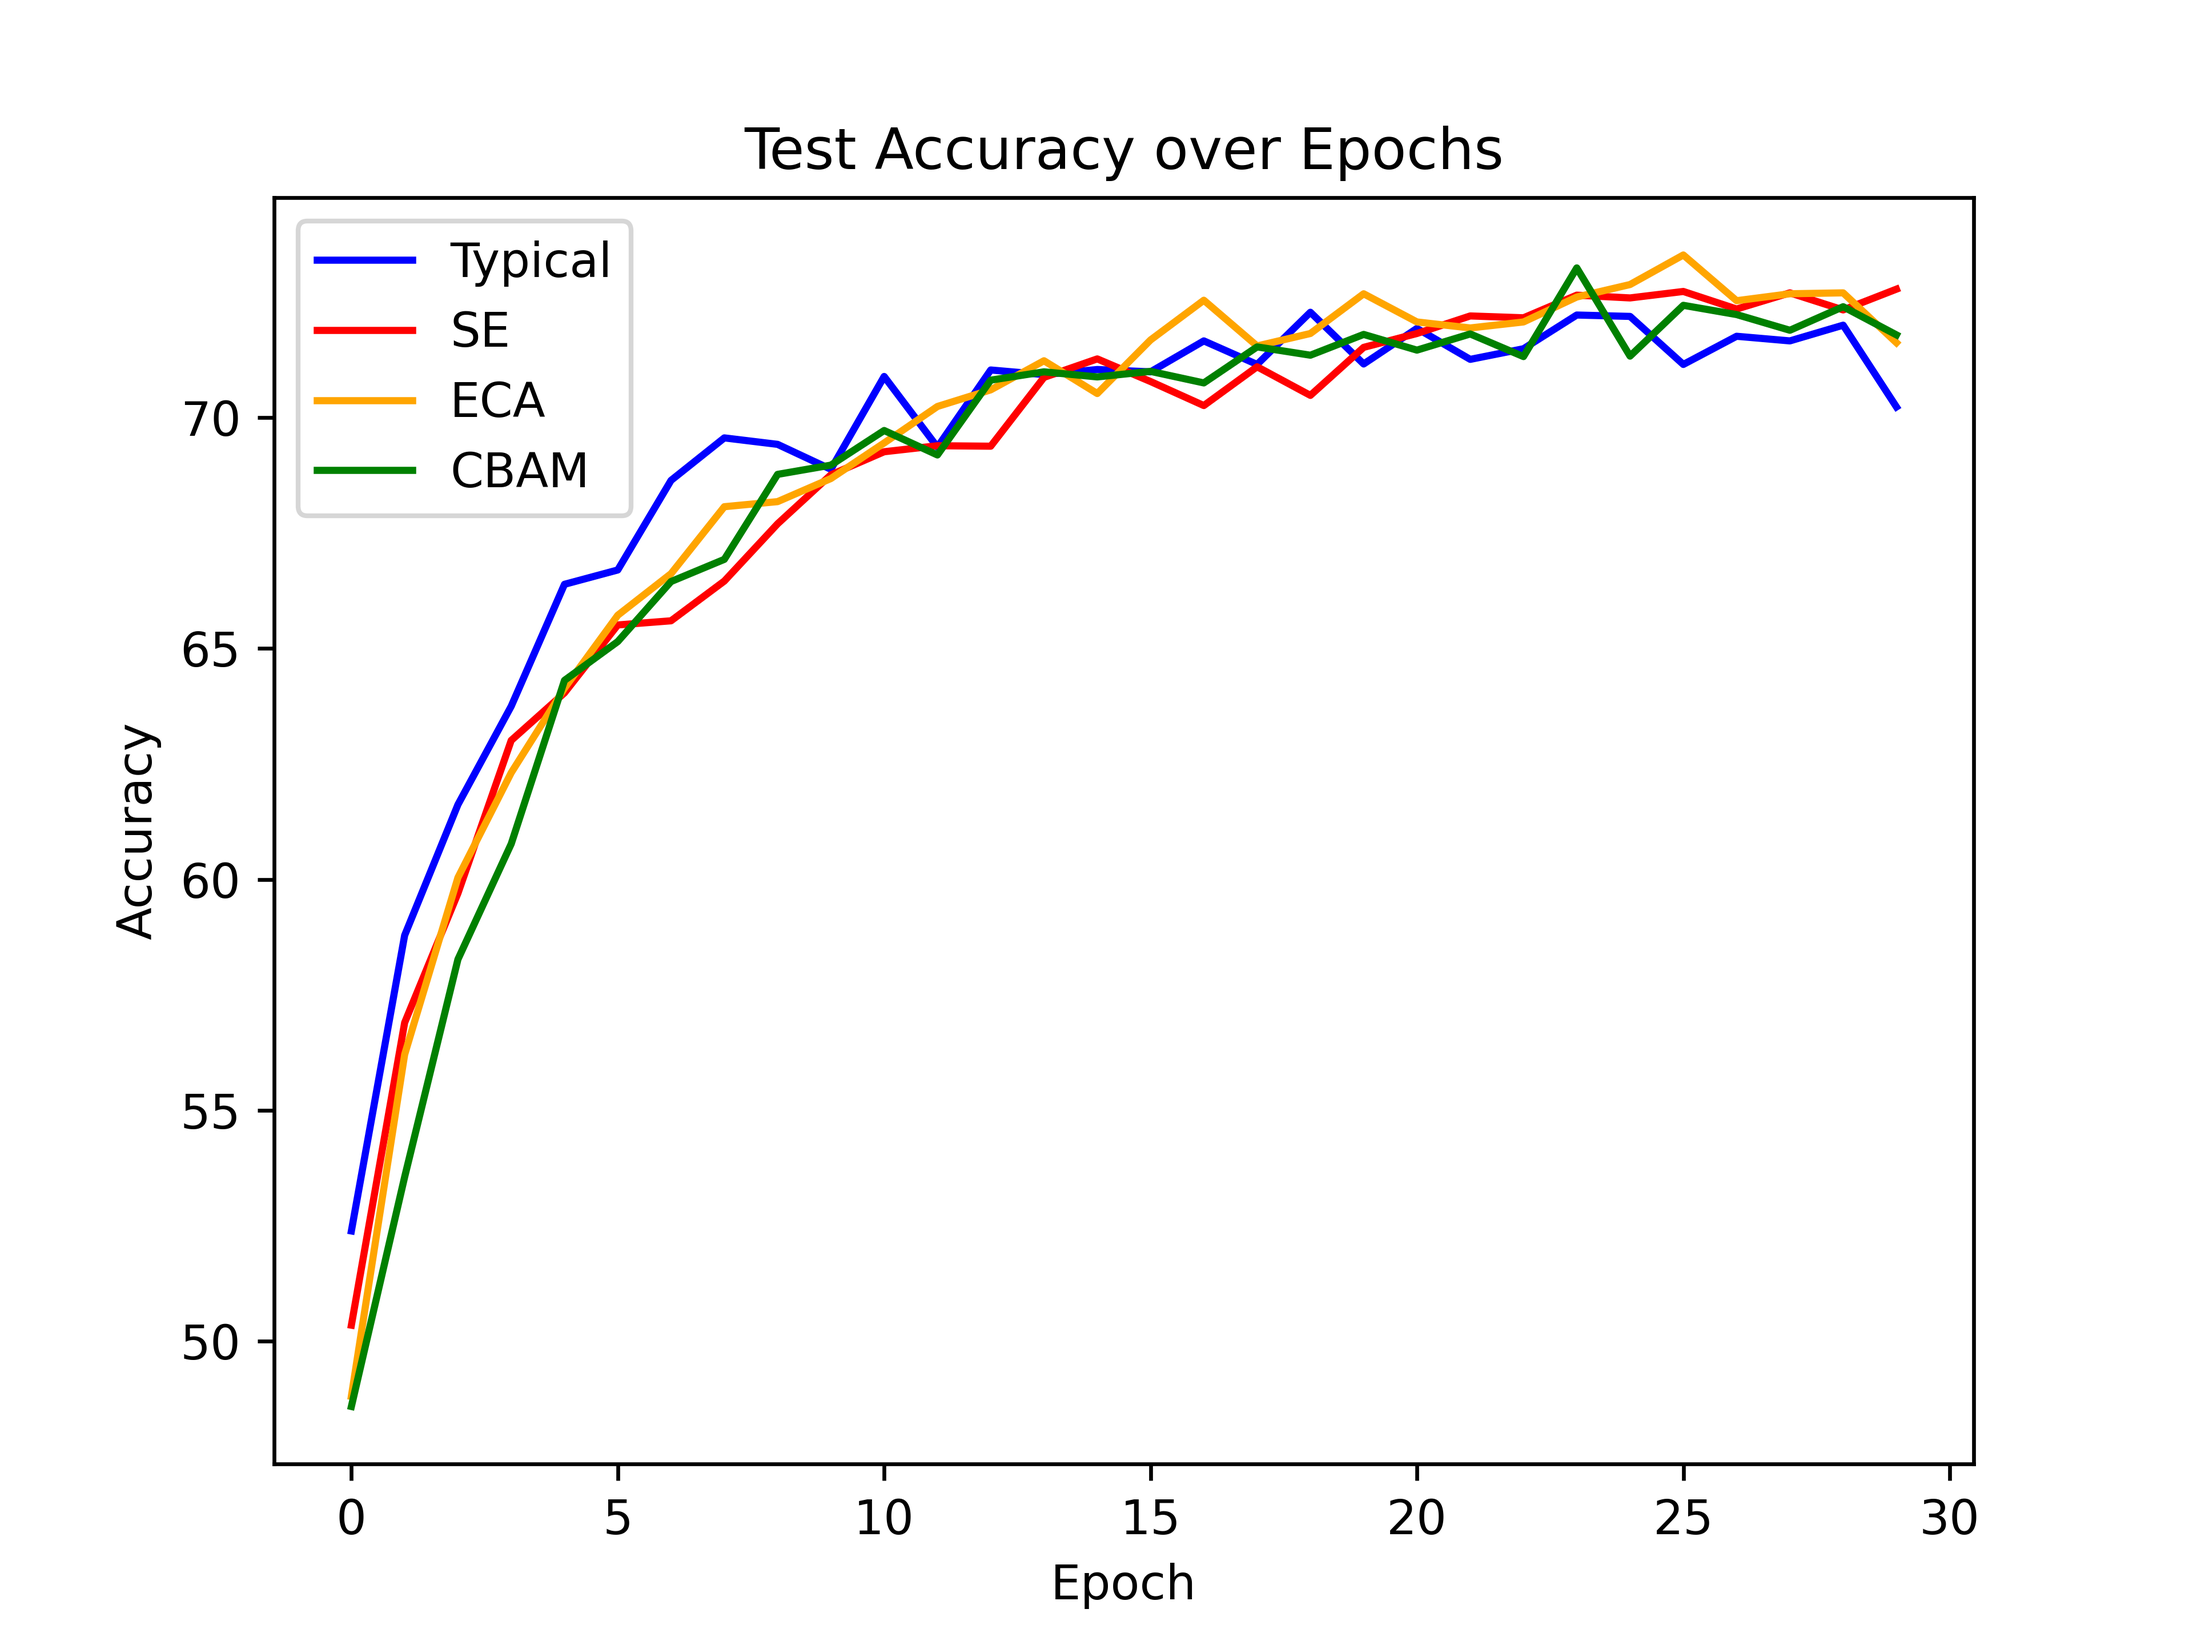
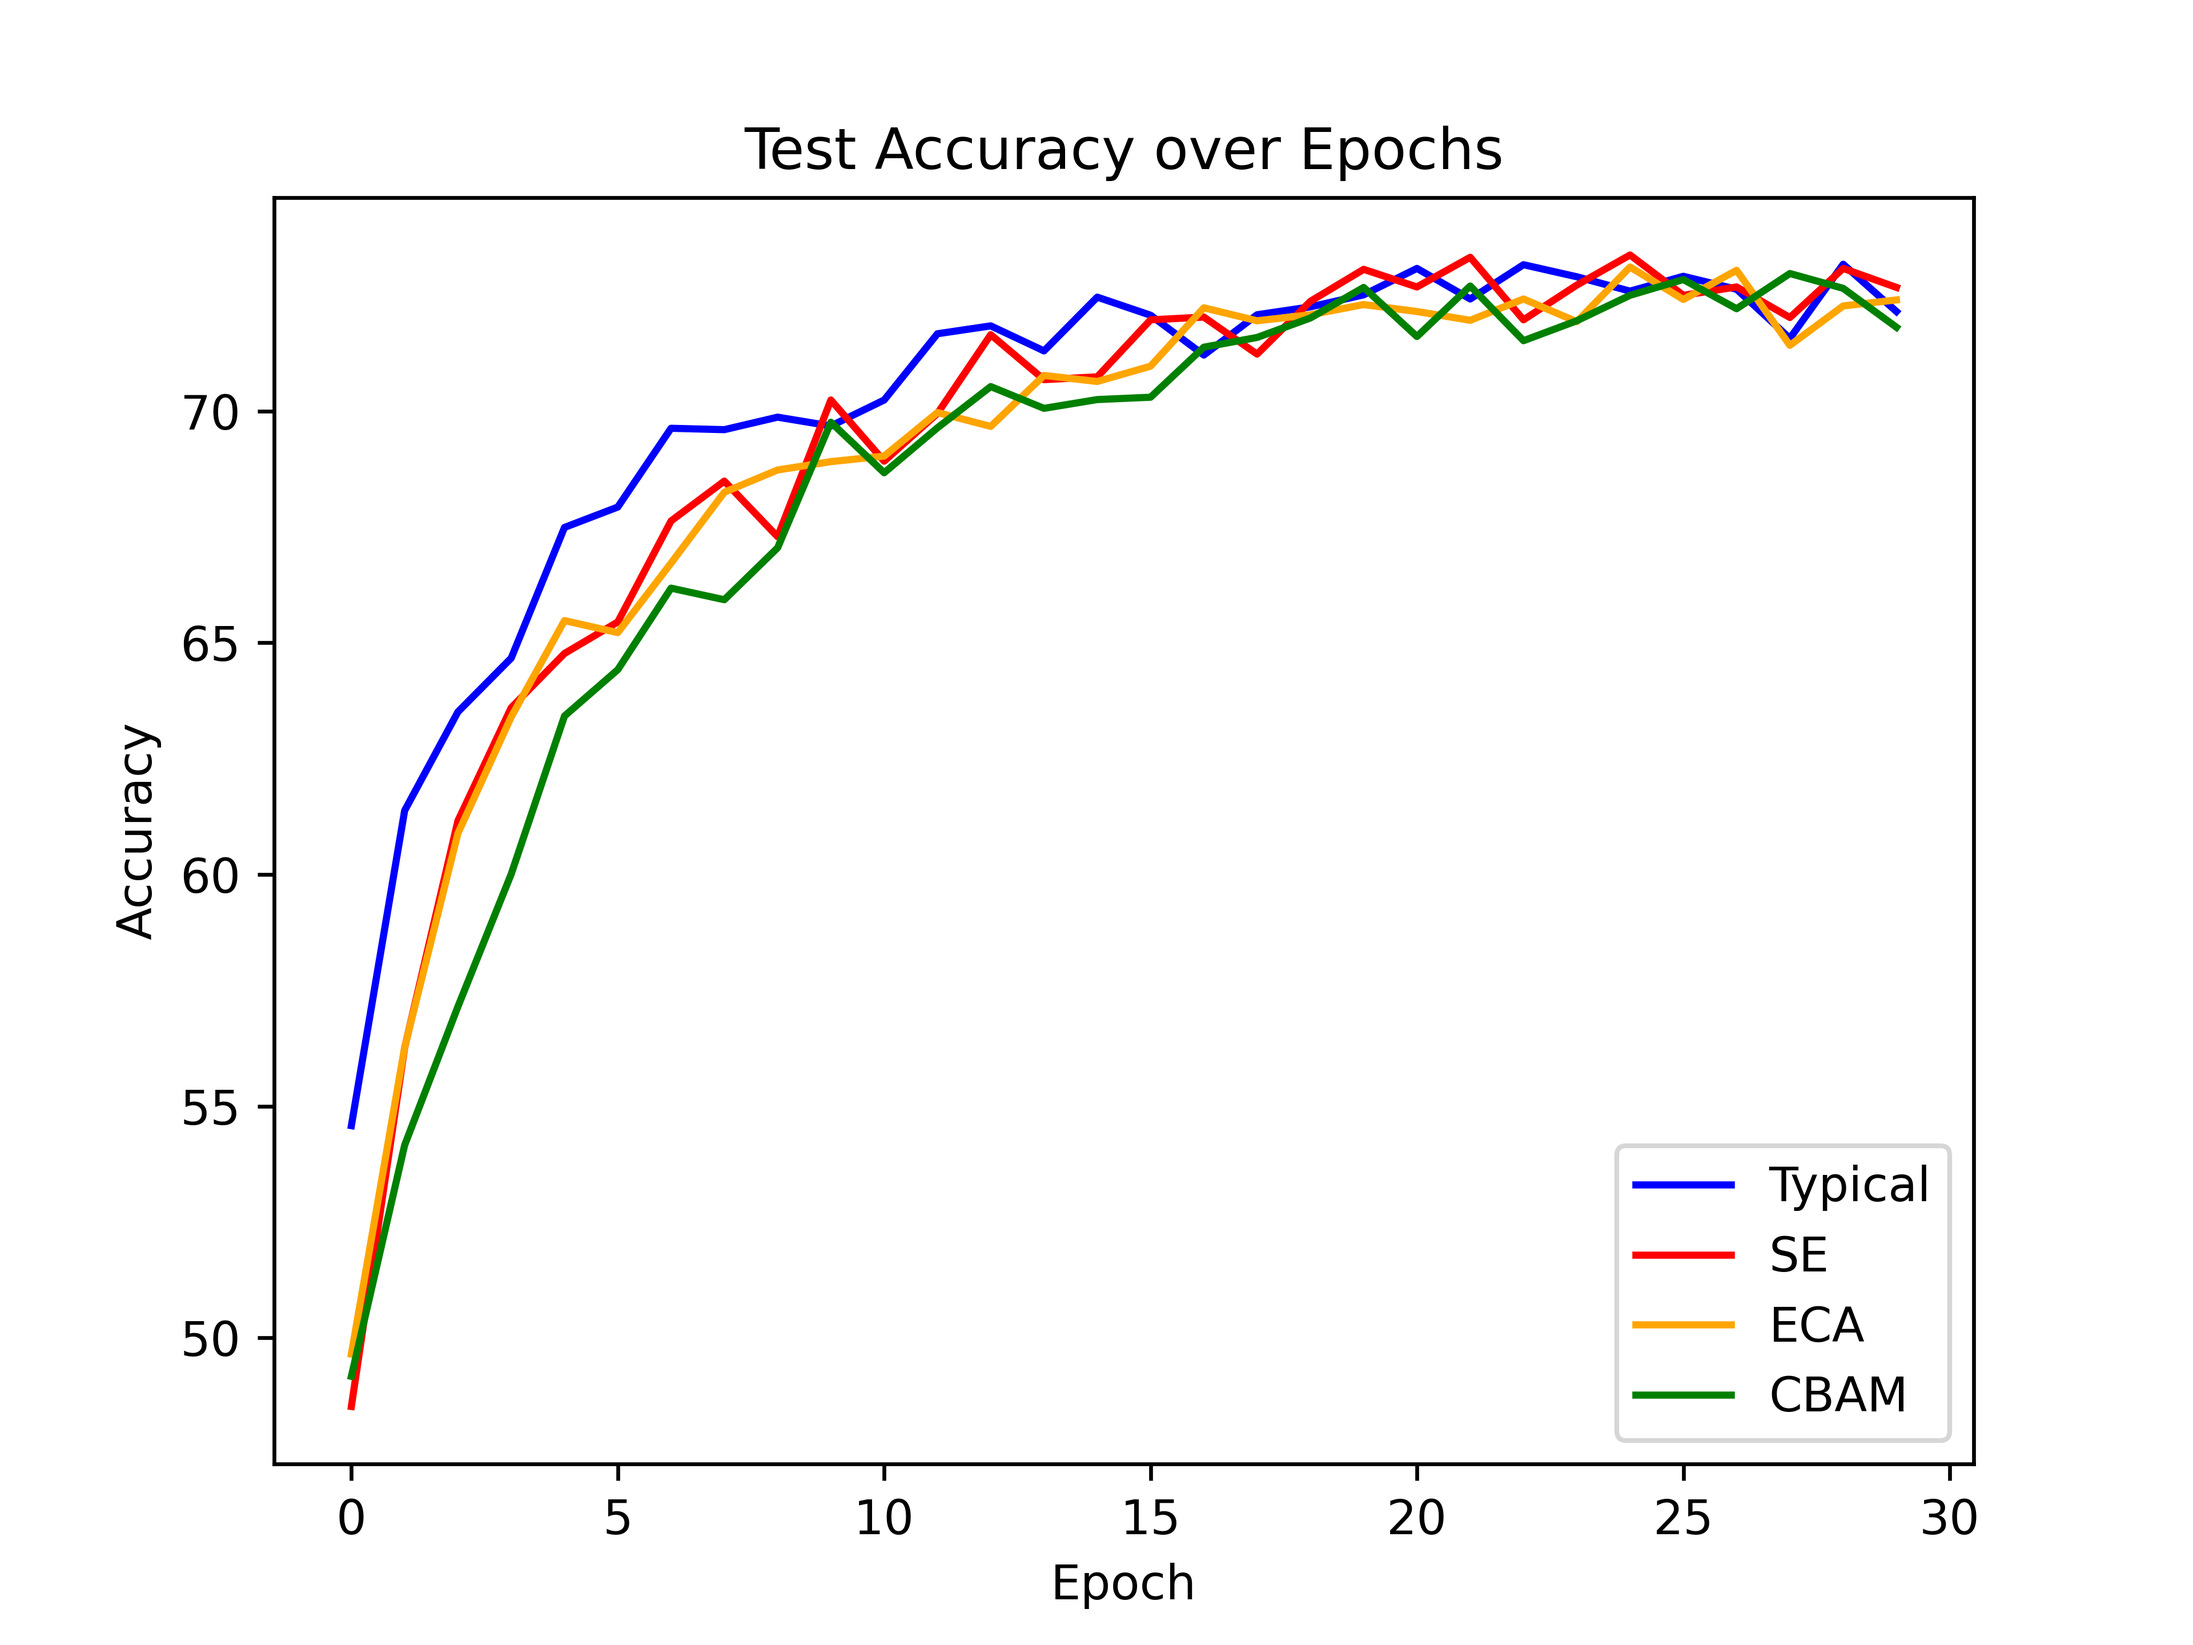
done

diff --git a/ConvNet.py b/ConvNet.py
@@ -21,7 +21,7 @@ class SEBlock(nn.Module):   # SE 注意力模块
         return x * y
 
 class ECABlock(nn.Module):  # ECA 注意力模块
-    def __init__(self, channels, kernel_size=3):
+    def __init__(self, channels, kernel_size=5):
         super(ECABlock, self).__init__()
         self.global_avg_pool = nn.AdaptiveAvgPool2d(1)
         self.conv1d = nn.Conv1d(1, 1, kernel_size=kernel_size, padding=(kernel_size - 1) // 2, bias=False)
@@ -35,7 +35,7 @@ class ECABlock(nn.Module):  # ECA 注意力模块
         return x * y
 
 class CBAMBlock(nn.Module): # CBAM 注意力模块
-    def __init__(self, channels, reduction=16, kernel_size=7):
+    def __init__(self, channels, reduction=16, kernel_size=5):
         super(CBAMBlock, self).__init__()
         # Channel Attention Module
         self.global_avg_pool = nn.AdaptiveAvgPool2d(1)
@@ -165,32 +165,46 @@ class model(nn.Module):
         
     def forward(self, x):
         in_size = x.size(0)
+
         if self.add_conv:
             out = self.conv0(x)
             out = self.activation_layer(out)
             out = self.conv1(out)
         else:
             out = self.conv1(x)
+
         if self.normalization != 'none':
             out = self.norm1(out)
+
         out = self.activation_layer(out)
+
         if self.attention != 'none':
             out = self.att1(out)
+
         out = self.pool1(out)
+
         out = self.conv2(out)
+
         if self.normalization != 'none':
             out = self.norm2(out)
+
         out = self.activation_layer(out)
+
         if self.attention != 'none':
             out = self.att2(out)
+
         out = self.pool2(out)
+
         out = self.conv3(out)
+
         out = out.view(in_size,-1)
         out = self.fc1(out)
+
         out = self.activation_layer(out)
+
         if self.dropout:
             out = self.dropout(out)
-        out = self.fc2(out)
 
+        out = self.fc2(out)
         out = F.log_softmax(out,dim=1)
         return out

diff --git a/PA3/test_attention.py b/PA3/test_attention.py
@@ -6,7 +6,7 @@ import matplotlib.pyplot as plt
 
 args = train.args
 train.total_epoch = 30
-args['dataset'] = 'cifar10'
+args['dataset'] = 'cifar100'
 
 # 经典 Lenet-5，无注意力机制
 train.args = args
